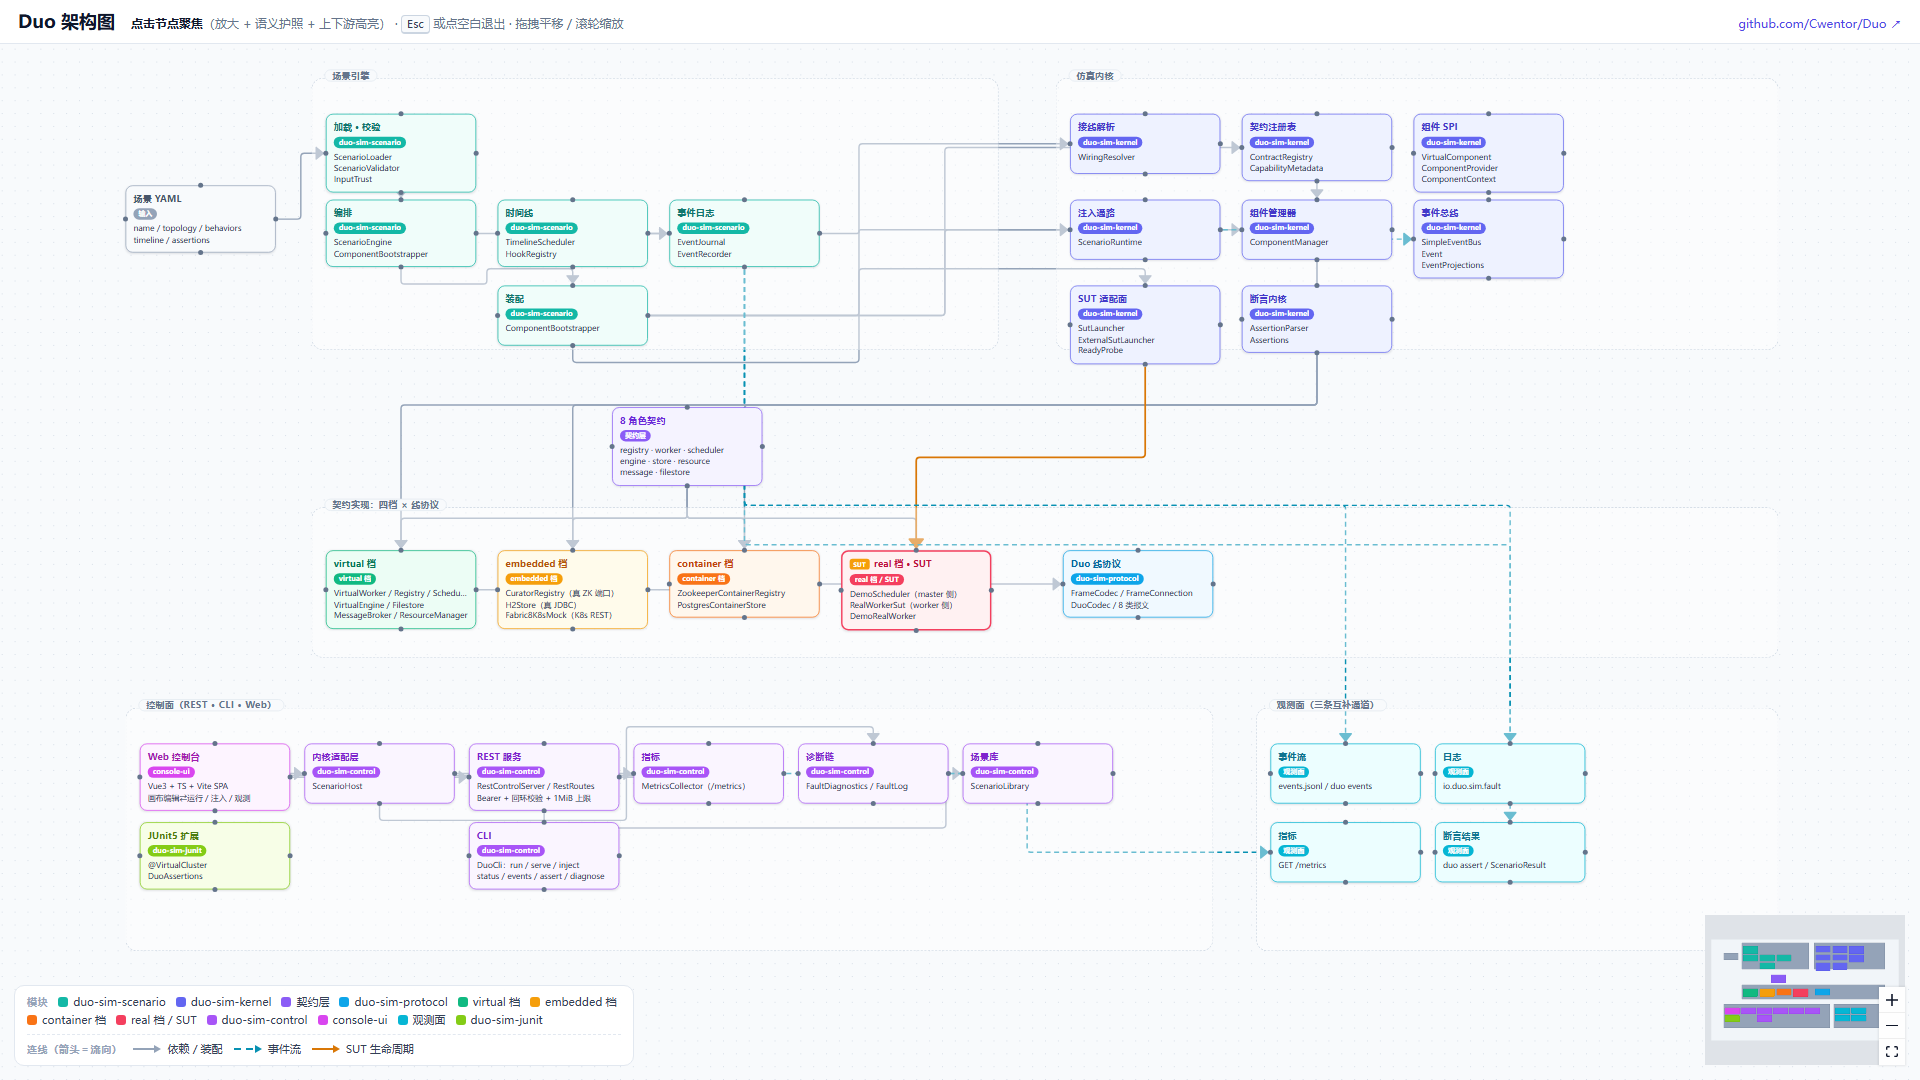
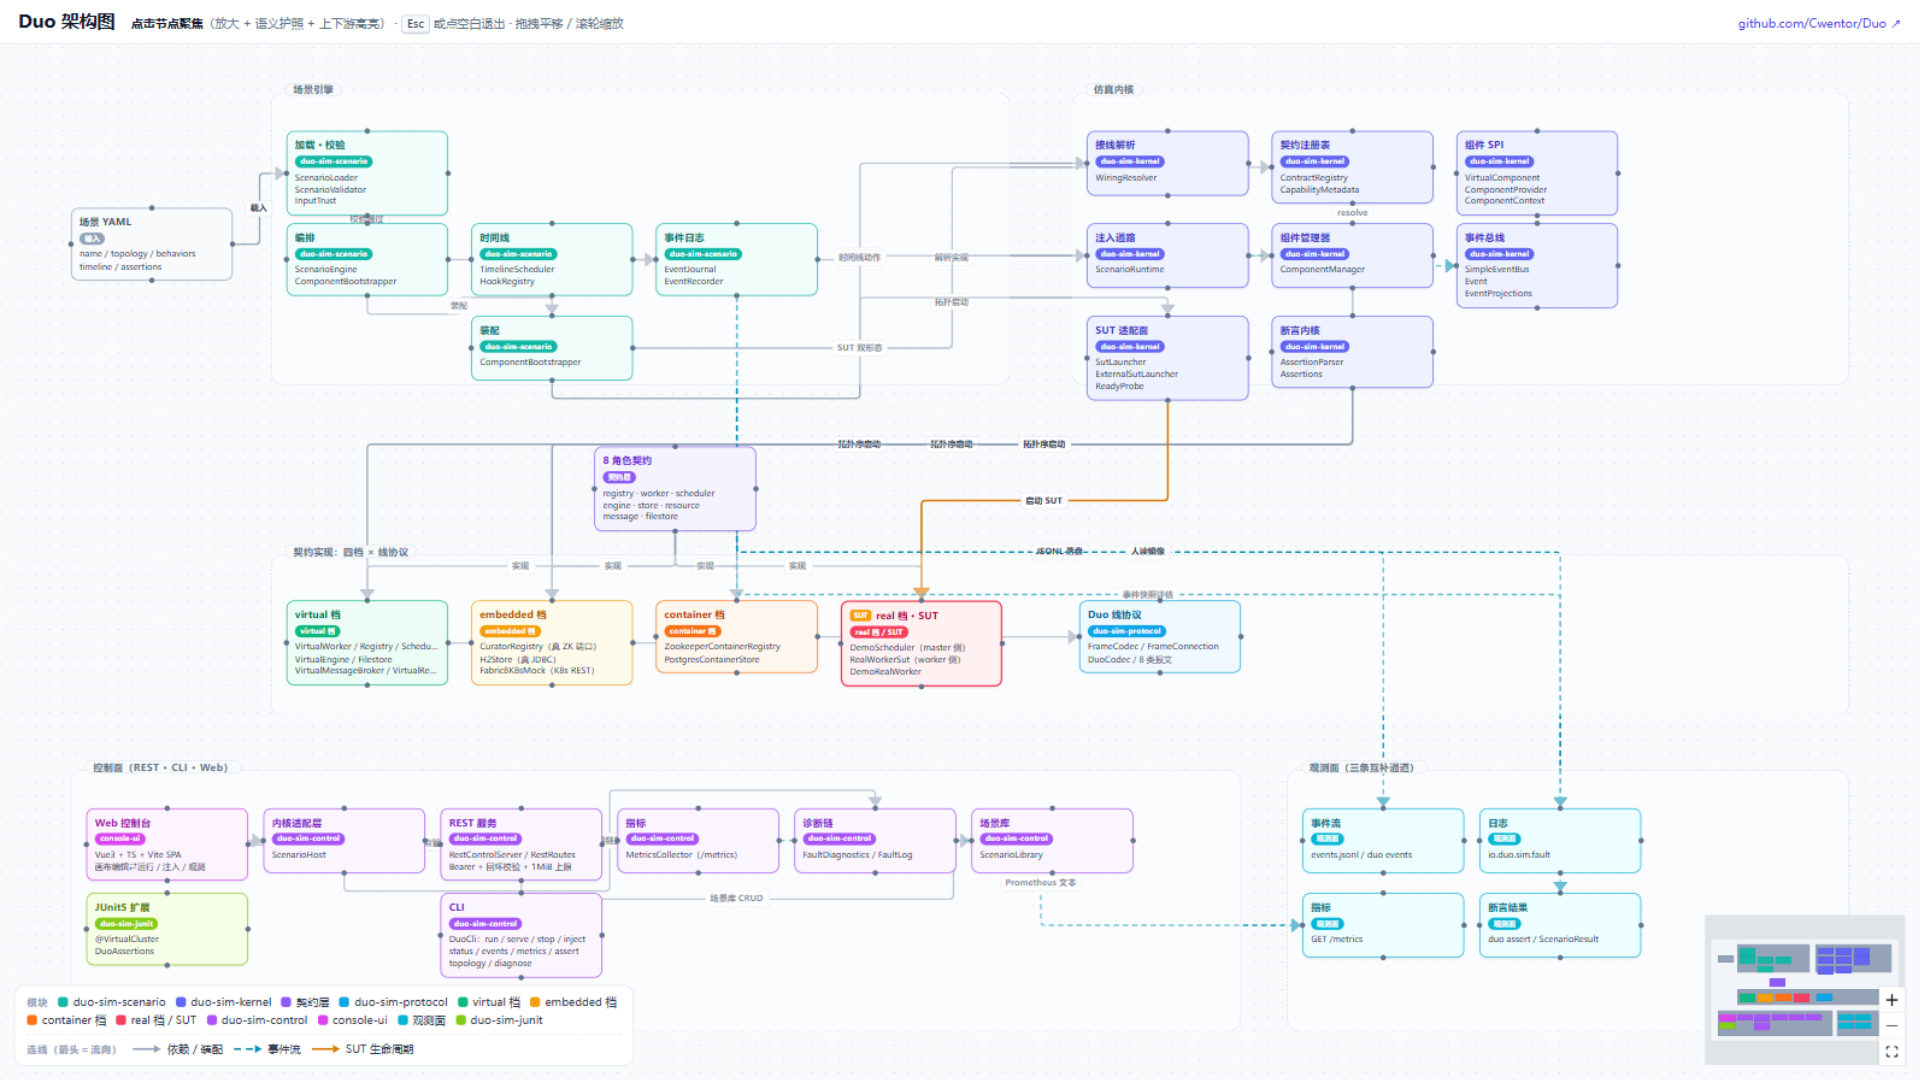
fix(architecture-ui): 架构图全仓对齐——类名/CLI 命令集/容器语义修正 + 指标族 19→18 + 快照重截
全仓核对（图数据 45 卡片/40 连线逐项对照代码）发现并修正 6 处不对齐：
- graph.tsx virtual 档卡片：MessageBroker/ResourceManager → 实际类名
  VirtualMessageBroker/VirtualResourceManager
- graph.tsx container 档卡片：「校验期显式拒绝」与实现不符——校验器对
  crash/restart 显式豁免，实为实例级运行期守卫（restart 防端口重映射挂起）
- graph.tsx SPI 卡片：「8 契约接口」→「Contract 枚举 8 角色，契约接口定义
  必发事件」（专用契约接口实为 5 个）
- graph.tsx CLI 卡片：补 stop/topology/metrics（实际 11 个子命令）
- 指标族实数 18（17 静态 gauge + 1 动态 by_type）：graph.tsx/README.md ×3/
  README.en.md ×3/docs/README/ROADMAP ×3/metrics package-info 19→18；
  CHANGELOG 历史条目与 M8 验收记录按快照语义保留不动
- DuoCli javadoc 子命令清单补 diagnose（代码与注释同步核对所漏）

docs/assets/architecture-preview.png 以新图数据重截（1920×1080，npm run
build 通过后画布 fitView 整页截图）；duo-sim-control 编译通过

diff --git a/architecture-ui/src/graph.tsx b/architecture-ui/src/graph.tsx
@@ -142,7 +142,7 @@ export const initialNodes: Node[] = [
   { id: 'spi', type: 'card', position: { x: 1820, y: 10 }, data: {
     title: '组件 SPI', module: 'kernel',
     classes: ['VirtualComponent', 'ComponentProvider', 'ComponentContext'],
-    desc: '生命周期 init/start/stop/restart；8 契约接口定义必发事件与档位语义差异（如 flap 后快照重放 vs 会话真实丢失）。',
+    desc: '生命周期 init/start/stop/restart；Contract 枚举 8 角色，契约接口定义必发事件与档位语义差异（如 flap 后快照重放 vs 会话真实丢失）。',
   } },
   { id: 'assertions', type: 'card', position: { x: 1580, y: 250 }, data: {
     title: '断言内核', module: 'kernel',
@@ -159,7 +159,7 @@ export const initialNodes: Node[] = [
   { id: 's-tier', type: 'section', position: { x: 280, y: 560 }, data: { label: '契约实现：四档 × 线协议' }, style: { width: 2050, height: 210 }, draggable: false, selectable: false },
   { id: 'virtual', type: 'card', position: { x: 300, y: 620 }, data: {
     title: 'virtual 档', module: 'virtual',
-    classes: ['VirtualWorker / Registry / Scheduler', 'VirtualEngine / Filestore', 'MessageBroker / ResourceManager'],
+    classes: ['VirtualWorker / Registry / Scheduler', 'VirtualEngine / Filestore', 'VirtualMessageBroker / VirtualResourceManager'],
     desc: '进程内状态机与行为模型（BehaviorProfile 剧本）；故障动作 freeze/slow/resource-exhaust/task-kill/registry-flap 全支持。',
     doc: { label: 'components README', url: GH + 'duo-sim-components/README.md' },
   } },
@@ -172,7 +172,7 @@ export const initialNodes: Node[] = [
   { id: 'container', type: 'card', position: { x: 780, y: 620 }, data: {
     title: 'container 档', module: 'container',
     classes: ['ZookeeperContainerRegistry', 'PostgresContainerStore'],
-    desc: 'Testcontainers 按需拉起真 ZK / 真 PostgreSQL（CI container job 断言 skip=0）；不支持 flap/restart，校验期显式拒绝。',
+    desc: 'Testcontainers 按需拉起真 ZK / 真 PostgreSQL（CI container job 断言 skip=0）；不支持 flap/restart——实例级守卫运行期显式拒绝（restart 防端口重映射挂起）。',
   } },
   { id: 'real', type: 'card', position: { x: 1020, y: 620 }, data: {
     title: 'real 档 · SUT', module: 'real', sut: true,
@@ -205,13 +205,13 @@ export const initialNodes: Node[] = [
   } },
   { id: 'cli', type: 'card', position: { x: 500, y: 1000 }, data: {
     title: 'CLI', module: 'control',
-    classes: ['DuoCli：run / serve / inject', 'status / events / assert / diagnose'],
+    classes: ['DuoCli：run / serve / stop / inject', 'status / events / metrics / assert', 'topology / diagnose'],
     desc: '同进程直连与 REST 客户端双模式；退出码即结论，供脚本化验收与 CI 使用。',
   } },
   { id: 'metrics', type: 'card', position: { x: 730, y: 890 }, data: {
     title: '指标', module: 'control',
     classes: ['MetricsCollector（/metrics）'],
-    desc: '从事件流与组件状态读数的薄层（19 指标族）；_total 计数器按游标单调推进——不丢、不重。',
+    desc: '从事件流与组件状态读数的薄层（18 指标族）；_total 计数器按游标单调推进——不丢、不重。',
     doc: { label: 'METRICS.md', url: GH + 'docs/METRICS.md' },
   } },
   { id: 'diag', type: 'card', position: { x: 960, y: 890 }, data: {

diff --git a/duo-sim-control/src/main/java/io/duo/sim/control/metrics/package-info.java b/duo-sim-control/src/main/java/io/duo/sim/control/metrics/package-info.java
@@ -2,6 +2,6 @@
  * 指标导出（M8 交付物 1，决策 D4＝零依赖手写，不引 Prometheus 客户端）：
  * {@link MetricsCollector}——从事件流与组件状态**读数**的薄层（§10 零内核改动的受益者），
  * 输出 Prometheus 文本格式；{@code _total} 计数器按「已消费事件下标游标」单向推进
- * （不丢、不重、单调）。19 个指标族的口径与已知边界逐条见 docs/METRICS.md。
+ * （不丢、不重、单调）。18 个指标族的口径与已知边界逐条见 docs/METRICS.md。
  */
 package io.duo.sim.control.metrics;

diff --git a/duo-sim-control/src/main/java/io/duo/sim/control/cli/DuoCli.java b/duo-sim-control/src/main/java/io/duo/sim/control/cli/DuoCli.java
@@ -20,7 +20,7 @@ import java.util.concurrent.CountDownLatch;
 
 /**
  * CLI 主类（M3 T34）：子命令
- * {@code run / serve / stop / inject / status / events / assert / topology / metrics / help}。
+ * {@code run / serve / stop / inject / status / events / assert / topology / metrics / diagnose / help}。
  *
  * <p>两种模式（计划 D2）：
  * <ul>

diff --git a/README.en.md b/README.en.md
@@ -293,7 +293,7 @@ duo diagnose --url http://127.0.0.1:<port>
 **Broken chains are reported explicitly**: if an injection produces no `sut.*` facts at all ⇒ the
 report prints `MISSING` with the reasons and exits non-zero ("the injection was issued but the
 subject under test did not react" is precisely the situation that most needs to be seen).
-Metric semantics (all 19 metric families + known boundaries) are documented in
+Metric semantics (all 18 metric families + known boundaries) are documented in
 [`docs/METRICS.md`](docs/METRICS.md).
 
 ### 5.5 Write a Scenario Test (JUnit 5)
@@ -359,7 +359,7 @@ Tier gaps and the plan to close them: [Roadmap M5](docs/ROADMAP.md#m5--契约与
 | 6 Real feedback (real protocol ports) | ✅ achieved | the embedded tier exposes real ZK/JDBC/K8s ports; interactive contracts speak the Duo wire protocol (**the worker side is real protocol too**: `RealWorkerSut` registers/heartbeats/claims/reports over `FrameConnection`); the container tier adds real PostgreSQL + real ZooKeeper, **five evidenced green runs on the CI `container` job** (latest: run `36115793273`, all three jobs green; the 10 container cases skip by design when no Docker is present locally) |
 | 7 Second-level feedback loop (single JVM, zero Docker) | ✅ achieved | full regression **423 tests / 0 failures / 0 errors / 12 skips** (10 container-tier cases due to no local Docker, 1 stress switch off, 1 `-Dduo.ds=true` real-SUT drill gate off — its always-on guard `DsFailoverDrillGuardTest` runs ungated in the regular regression; `-Dduo.docker.enabled=false` turns "no Docker" into a fact rather than an accident) |
 | 8 CI-friendly (JUnit 5 + assertions + scenarios in version control) | ✅ achieved | extension + assertion libraries, standard Wrapper, three CI jobs (M7; remote continuously green), release artifacts (source/javadoc + CHANGELOG), and the **dependency quality gate (`-Dquality`, round 11, wired into CI)** |
-| — Observability (design §11, M8) | ✅ achieved | all three channels landed: event-stream recording (pre-existing) + logs (`logback.xml`/`logback-test.xml`, `io.duo.sim.fault` causal chain) + metrics (`/metrics`, 19 metric families); single-command causal-chain export via `duo diagnose` |
+| — Observability (design §11, M8) | ✅ achieved | all three channels landed: event-stream recording (pre-existing) + logs (`logback.xml`/`logback-test.xml`, `io.duo.sim.fault` causal chain) + metrics (`/metrics`, 18 metric families); single-command causal-chain export via `duo diagnose` |
 | — Web console (M10; D16 overturns the "polished Web console" non-goal) | ✅ achieved | Java control plane: `/api/scenarios` (scenario library CRUD/fork/validate), `/api/capabilities`, `/api/meta`, `/api/inject/clear`, `GET /diagnose`, `/events` cursor `next`/`dropped`, SPA static hosting (`/console/**`, CSP `default-src 'self'`); `console-ui` (Vue 3 + TS + Vite, Node build-time only) ships three pages — token/login, scenario library, workspace (canvas + property panel + YAML drawer, edit⇄run dual mode, injection panel, three observation tabs); artifacts are embedded into the `duo-sim-control` classpath and served same-origin by `duo serve`. **Zero kernel/scenario module changes**; Java 423 tests + frontend Vitest 46 tests all green |
 
 **One-sentence summary**: goals 1/4/5/6/7/8 and observability are achieved; what remains for 2/3 is
@@ -380,7 +380,7 @@ Full gap analysis and stage plans: **[docs/ROADMAP.md](docs/ROADMAP.md)**.
 | [`docs/README.md`](docs/README.md) | Repo-wide doc index and reading paths |
 | [`docs/ARCHITECTURE.md`](docs/ARCHITECTURE.md) | Architecture deep-dive: modules, SPI, contracts & tiers, wiring rules, event bus, SUT adapter surface, control plane, wire protocol |
 | [`docs/SCENARIO-DSL.md`](docs/SCENARIO-DSL.md) | Scenario DSL reference (minimal-scenario walkthrough / full field set / validation rules 1–8 / assertion semantics / built-in component config keys) |
-| [`docs/METRICS.md`](docs/METRICS.md) | `/metrics` metric semantics (all 19 metric families: meaning, refresh timing, known boundaries) |
+| [`docs/METRICS.md`](docs/METRICS.md) | `/metrics` metric semantics (all 18 metric families: meaning, refresh timing, known boundaries) |
 | [`docs/DEVELOPMENT.md`](docs/DEVELOPMENT.md) | Development guide: environment, build, test layering, extension points, conventions, known engineering debt |
 | [`docs/ROADMAP.md`](docs/ROADMAP.md) | Roadmap: goal-achievement inventory, gap list G1–G11, stage plans and acceptance criteria |
 | [`docs/DECISIONS.md`](docs/DECISIONS.md) | Decision ledger: rulings (decision / rationale / trigger / landing point) and revision records |

diff --git a/README.md b/README.md
@@ -268,7 +268,7 @@ duo diagnose --url http://127.0.0.1:<port>
 
 **断链会被显式报出**：注入之后没有任何 `sut.*` 事实 ⇒ 报告打 `MISSING` 并列出原因、
 退出码非 0（"注入下达了但被测对象没反应"是最需要被看见的情形）。
-指标口径（19 个指标族逐个口径 + 已知边界）见 [`docs/METRICS.md`](docs/METRICS.md)。
+指标口径（18 个指标族逐个口径 + 已知边界）见 [`docs/METRICS.md`](docs/METRICS.md)。
 
 ### 5.5 写一个场景测试（JUnit5）
 
@@ -331,7 +331,7 @@ class MyScenarioTest {
 | 6 真实反馈（真协议端口） | ✅ 已达成 | embedded 档暴露真实 ZK/JDBC/K8s 端口；交互型走 Duo 线协议（**worker 侧也是真协议**：`RealWorkerSut` 经 `FrameConnection` 注册/心跳/领取/回报）；container 档另有真 PostgreSQL + 真 ZK，**已在 CI `container` job 五次取证为绿**（最近一次 run `36115793273` 三作业全绿；本机无 Docker 时 10 条容器用例按设计 skip） |
 | 7 秒级反馈回路（单 JVM 零 Docker） | ✅ 已达成 | 全量回归 **423 测 / 0 失败 / 0 错误 / 12 skip**（10 条容器档因本机无 Docker、1 条未开压测开关、1 条未开 `-Dduo.ds=true` 真实 SUT 演练门控——其常驻守卫 `DsFailoverDrillGuardTest` 无门控进常规回归；`-Dduo.docker.enabled=false` 让「无 Docker」成为确定事实） |
 | 8 CI 友好（JUnit5 + 断言 + 场景入版本库） | ✅ 已达成 | 扩展/断言库 + 标准 Wrapper + CI 三 job（M7；远端连续全绿）+ 发布产物（source/javadoc + CHANGELOG）+ **依赖门禁（`-Dquality`，第 11 轮，已进 CI）** |
-| — 观测面（设计 §11，M8） | ✅ 已达成 | 三条通道全落地：事件流录制（既有）+ 日志（`logback.xml`/`logback-test.xml`，`io.duo.sim.fault` 因果链）+ 指标（19 个指标族的 `/metrics`）；单命令因果链导出 `duo diagnose` |
+| — 观测面（设计 §11，M8） | ✅ 已达成 | 三条通道全落地：事件流录制（既有）+ 日志（`logback.xml`/`logback-test.xml`，`io.duo.sim.fault` 因果链）+ 指标（18 个指标族的 `/metrics`）；单命令因果链导出 `duo diagnose` |
 | — Web 控制台（M10，D16 推翻「精美 Web 控制台」非目标） | ✅ 已达成 | Java 控制面 `/api/scenarios`（场景库 CRUD/fork/校验）、`/api/capabilities`、`/api/meta`、`/api/inject/clear`、`GET /diagnose`、`/events` 游标 `next`/`dropped`、SPA 静态托管（`/console/**`，CSP `default-src 'self'`）；`console-ui`（Vue3+TS+Vite，构建期 Node）三页＝令牌页/场景库/工作区（画布+属性面板+YAML 抽屉，编辑⇄运行双模式、注入面板、观测三 tab）；产物内嵌 `duo-sim-control` classpath，`duo serve` 同源托管。**内核/场景模块零改动**；Java 423 测 + 前端 Vitest 46 测全绿 |
 
 **一句话总结**：1/4/5/6/7/8 与观测面已达成；2/3 剩的是**广度**而非能力——
@@ -348,7 +348,7 @@ class MyScenarioTest {
 | [交互式架构图](https://cwentor.github.io/Duo/) | ReactFlow 交互画布（源码 [`architecture-ui/`](architecture-ui/README.md)）：点击节点聚焦（放大 + 语义护照 + 上下游高亮）、带箭头的三类连线语义；静态快照见 §3.1 |
 | [`docs/ARCHITECTURE.md`](docs/ARCHITECTURE.md) | 架构详解：模块、SPI、契约与档位、接线规则、事件总线、SUT 适配面、控制面、线协议 |
 | [`docs/SCENARIO-DSL.md`](docs/SCENARIO-DSL.md) | 场景 DSL 参考手册（最小场景走读 / 字段全集 / 校验规则 1–8 / 断言语义 / 内置组件 config 键） |
-| [`docs/METRICS.md`](docs/METRICS.md) | `/metrics` 指标口径（19 个指标族的语义、刷新时机与已知边界） |
+| [`docs/METRICS.md`](docs/METRICS.md) | `/metrics` 指标口径（18 个指标族的语义、刷新时机与已知边界） |
 | [`docs/DEVELOPMENT.md`](docs/DEVELOPMENT.md) | 开发指南：环境、构建、测试分层、扩展点、约定、已知工程债 |
 | [docs/ROADMAP.md](docs/ROADMAP.md) | 发展规划：目标达成度盘点、差距清单 G1–G11、阶段计划与验收口径 |
 | [docs/DECISIONS.md](docs/DECISIONS.md) | 决策台账：拍板记录（决定/理由/触发条件/落点）与修订记录 |

diff --git a/docs/README.md b/docs/README.md
@@ -33,7 +33,7 @@
 | [`SCENARIO-DSL.md`](SCENARIO-DSL.md) | 场景 YAML 字段全集、校验规则 1–8、行为剧本字段、时间线动作、断言清单与语义、内置组件 config 键、最小场景走读与完整示例、常见报错 | 新增/修改 DSL 字段、校验规则、断言或内置组件配置键 |
 | [`DEVELOPMENT.md`](DEVELOPMENT.md) | 环境与工具链、构建/测试命令、测试分层与门控、扩展点操作步骤、模块依赖纪律、编码与提交约定、已知工程债 | 构建方式、测试门控、开发流程变化 |
 | [ROADMAP.md](ROADMAP.md) | 原始目标达成度盘点（T1–T8 判据与取证）、差距清单（G1–G11）、M5–M8 阶段计划与验收口径、优先级与决策点、进展记录 | 阶段立项/关闭、差距状态变化 |
-| [METRICS.md](METRICS.md) | `/metrics` 指标口径：19 个指标族的语义与刷新时机、三条观测通道的分工、已知边界与后续可扩充项 | 新增/修改指标、调整口径或分桶 |
+| [METRICS.md](METRICS.md) | `/metrics` 指标口径：18 个指标族的语义与刷新时机、三条观测通道的分工、已知边界与后续可扩充项 | 新增/修改指标、调整口径或分桶 |
 | [DECISIONS.md](DECISIONS.md) | 决策台账 D1–D16（决定/理由/触发条件/落点）、决策→交付物映射、修订记录 | 任何需要「拍板」的设计取舍被确定或被推翻时 |
 
 ### 2.2 模块级
